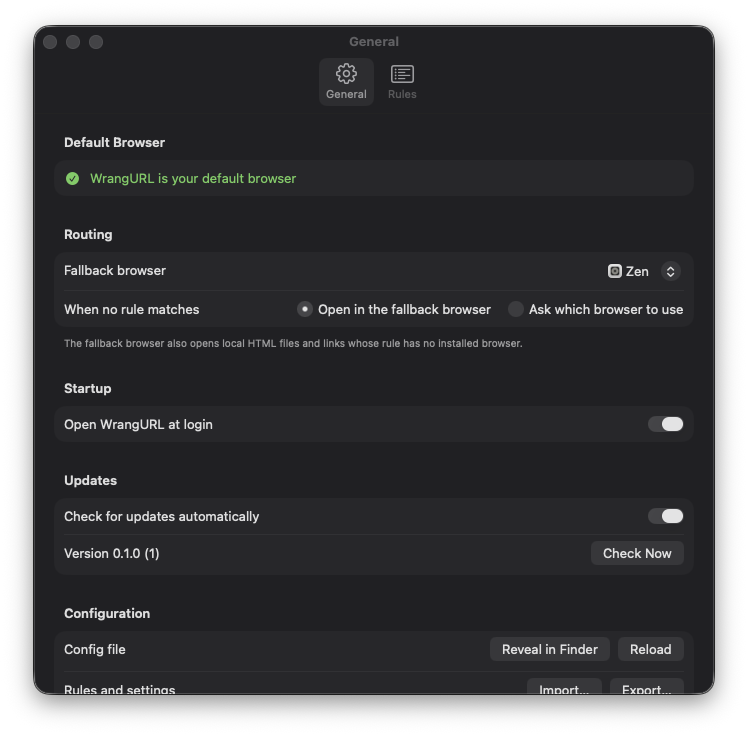
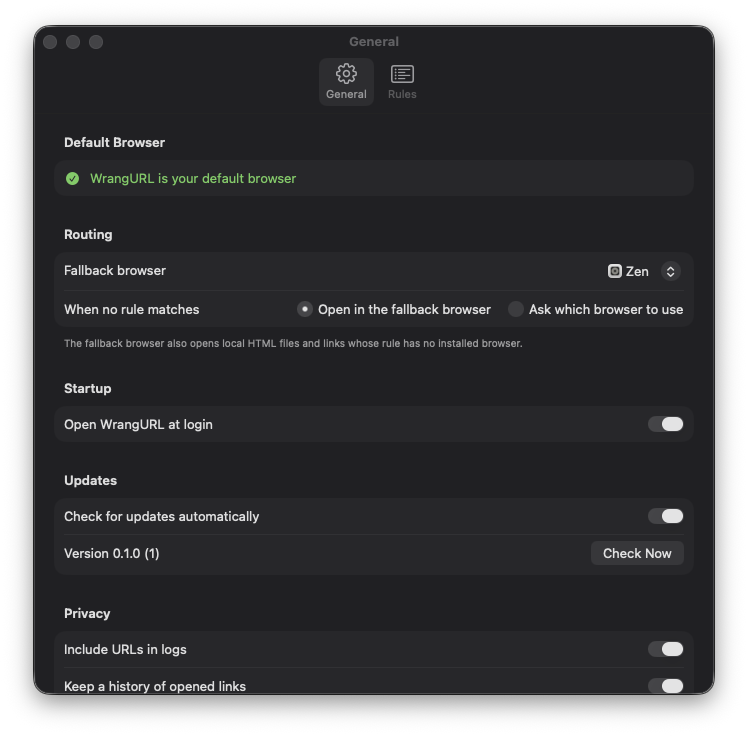
Document the History window on the website.
Adds a History section with light and dark screenshots, mentions
History… in the menu and settings descriptions, and refreshes the
Settings → General screenshots, which now show the Privacy options.

diff --git a/docs/index.html b/docs/index.html
@@ -94,7 +94,7 @@
     </div>
     <div>
       <h2>Stays out of the way</h2>
-      <p>Lives in the menu bar, can open at login, and updates itself from GitHub releases.</p>
+      <p>Lives in the menu bar, keeps a searchable history of the links it opened, and updates itself from GitHub releases.</p>
     </div>
   </section>
 
@@ -316,26 +316,52 @@
       </div>
     </div>
 
+    <h3 id="history">Look back at your history</h3>
+    <p>
+      Choose <b>History…</b> from the menu bar icon to see every link WrangURL has opened, grouped by day.
+      Each row shows the time, the link, the rule that matched it and the browser it went to.
+    </p>
+
+    <figure class="wide">
+      <picture>
+        <source srcset="images/history-dark.png" media="(prefers-color-scheme: dark)">
+        <img src="images/history-light.png" width="768" height="620" loading="lazy"
+             alt="The History window: links grouped under Today, Yesterday and an earlier date, each with its time, matching rule, browser, and buttons to copy or open it.">
+      </picture>
+      <figcaption>The History window. Rule names appear next to the browser when a rule matched.</figcaption>
+    </figure>
+
+    <ul>
+      <li>Type in <b>Search History</b> to filter by link, browser or rule.</li>
+      <li>Use the buttons at the end of a row to copy the link, or to open it again through your rules. Double-clicking a row also opens it again.</li>
+      <li>Right-click to open, copy or delete the selected links. Hold <kbd>⌘</kbd> or <kbd>Shift</kbd> to select several.</li>
+      <li>Click the trash button in the toolbar to clear the whole history.</li>
+    </ul>
+    <p>
+      History stays on your Mac, in <code>history.json</code> next to your configuration, and keeps the most recent 5,000 links.
+      To stop recording, turn off <b>Keep a history of opened links</b> in Settings → General.
+    </p>
+
     <h3 id="settings">Menu bar and settings</h3>
     <p>The menu bar icon gives you quick access to the things you change most:</p>
     <ul>
       <li>whether WrangURL is the default browser, with a button to set it again;</li>
       <li>the fallback browser, and what happens when no rule matches;</li>
       <li><b>Recent Links</b>. Choose one to copy it;</li>
-      <li><b>Edit Rules…</b>, <b>Settings…</b>, <b>Open at Login</b> and <b>Check for Updates…</b>.</li>
+      <li><b>History…</b>, <b>Edit Rules…</b>, <b>Settings…</b>, <b>Open at Login</b> and <b>Check for Updates…</b>.</li>
     </ul>
 
     <figure class="wide">
       <picture>
         <source srcset="images/settings-general-dark.png" media="(prefers-color-scheme: dark)">
         <img src="images/settings-general-light.png" width="748" height="736" loading="lazy"
-             alt="The General tab: default browser status, fallback browser, unmatched links, startup, updates, privacy and configuration.">
+             alt="The General tab: default browser status, fallback browser, unmatched links, startup, updates, and privacy options for logging URLs and keeping a history.">
       </picture>
       <figcaption>Settings → General.</figcaption>
     </figure>
 
     <p>
-      <b>Settings → General</b> covers the same routing options, plus launch at login, automatic updates, whether URLs are logged, and your configuration.
+      <b>Settings → General</b> covers the same routing options, plus launch at login, automatic updates, whether URLs are logged, whether to keep a history, and your configuration.
       Use <b>Import…</b> and <b>Export…</b> to move your rules and settings between Macs as a JSON file.
     </p>
     <p>

diff --git a/README.md b/README.md
@@ -70,7 +70,7 @@ The picker appears next to the mouse pointer. The app you clicked the link in st
 
 ### History
 
-Choose **History…** in the menu to see every link WrangURL has opened, grouped by day, with the time, the rule that matched and the browser it went to. Search filters by URL, browser or rule. Double-click a link to open it again through your rules, or right-click to copy or delete links. **Clear History…** in the toolbar removes everything.
+Choose **History…** in the menu to see every link WrangURL has opened, grouped by day, with the time, the rule that matched and the browser it went to. Search filters by URL, browser or rule. The buttons at the end of each row copy the link or open it again through your rules; double-clicking also opens it again. Right-click to copy, open or delete selected links. The trash button in the toolbar clears everything.
 
 History is kept only on this Mac, in `history.json` next to the configuration file, and holds the most recent 5,000 links. Turn it off in **Settings → General**.
 
